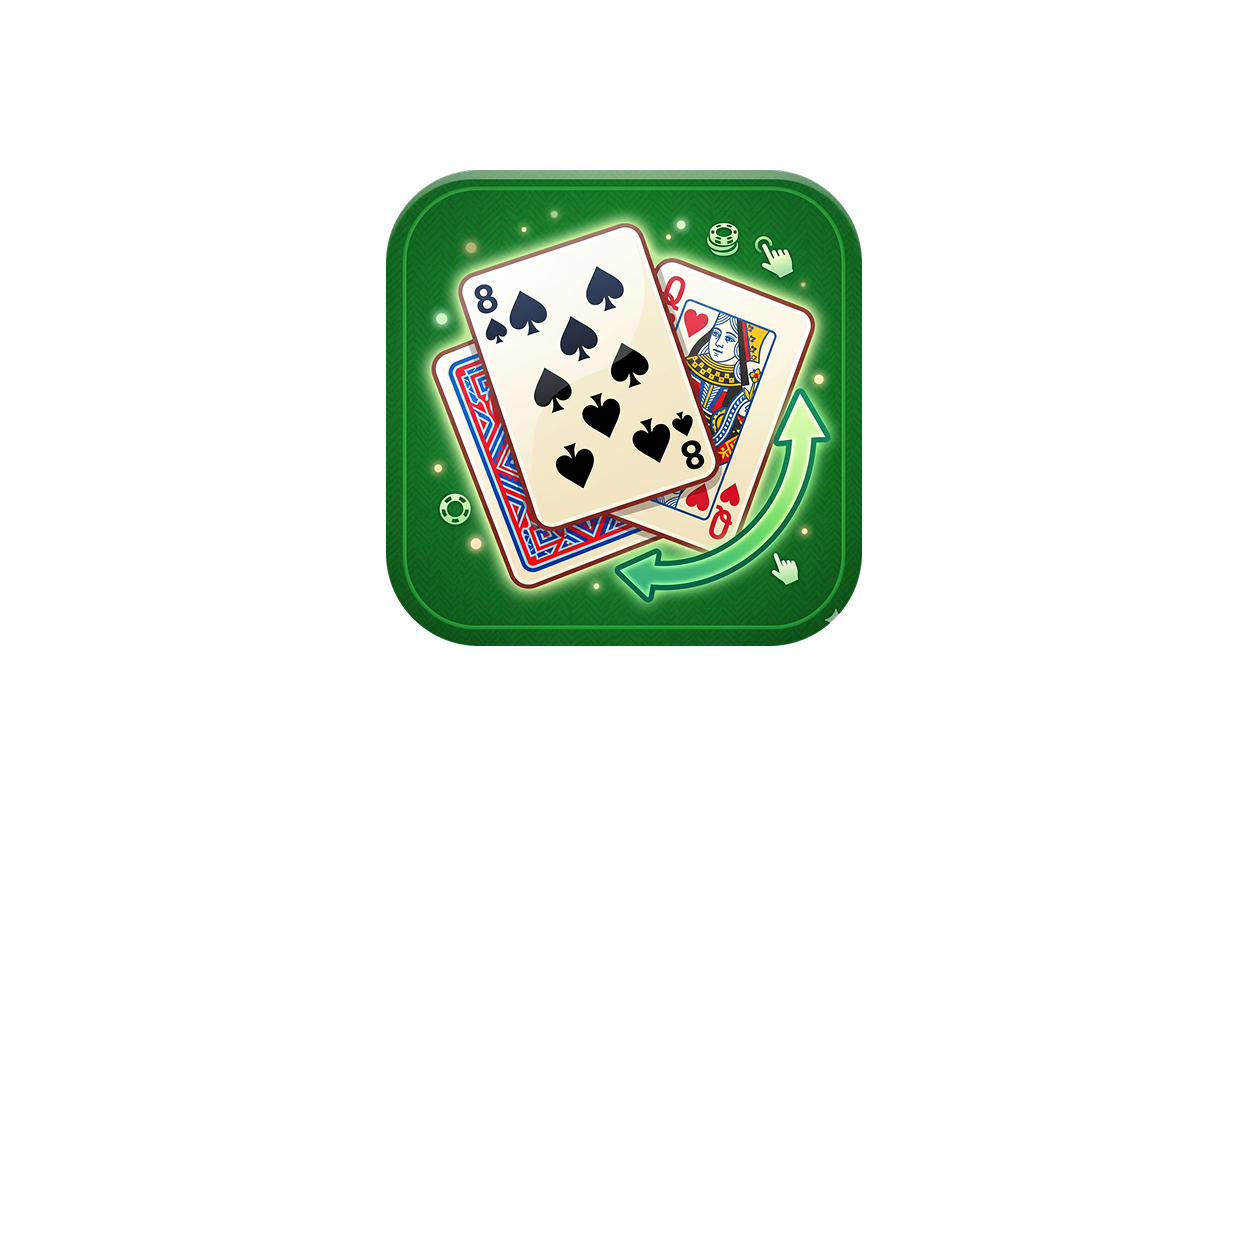
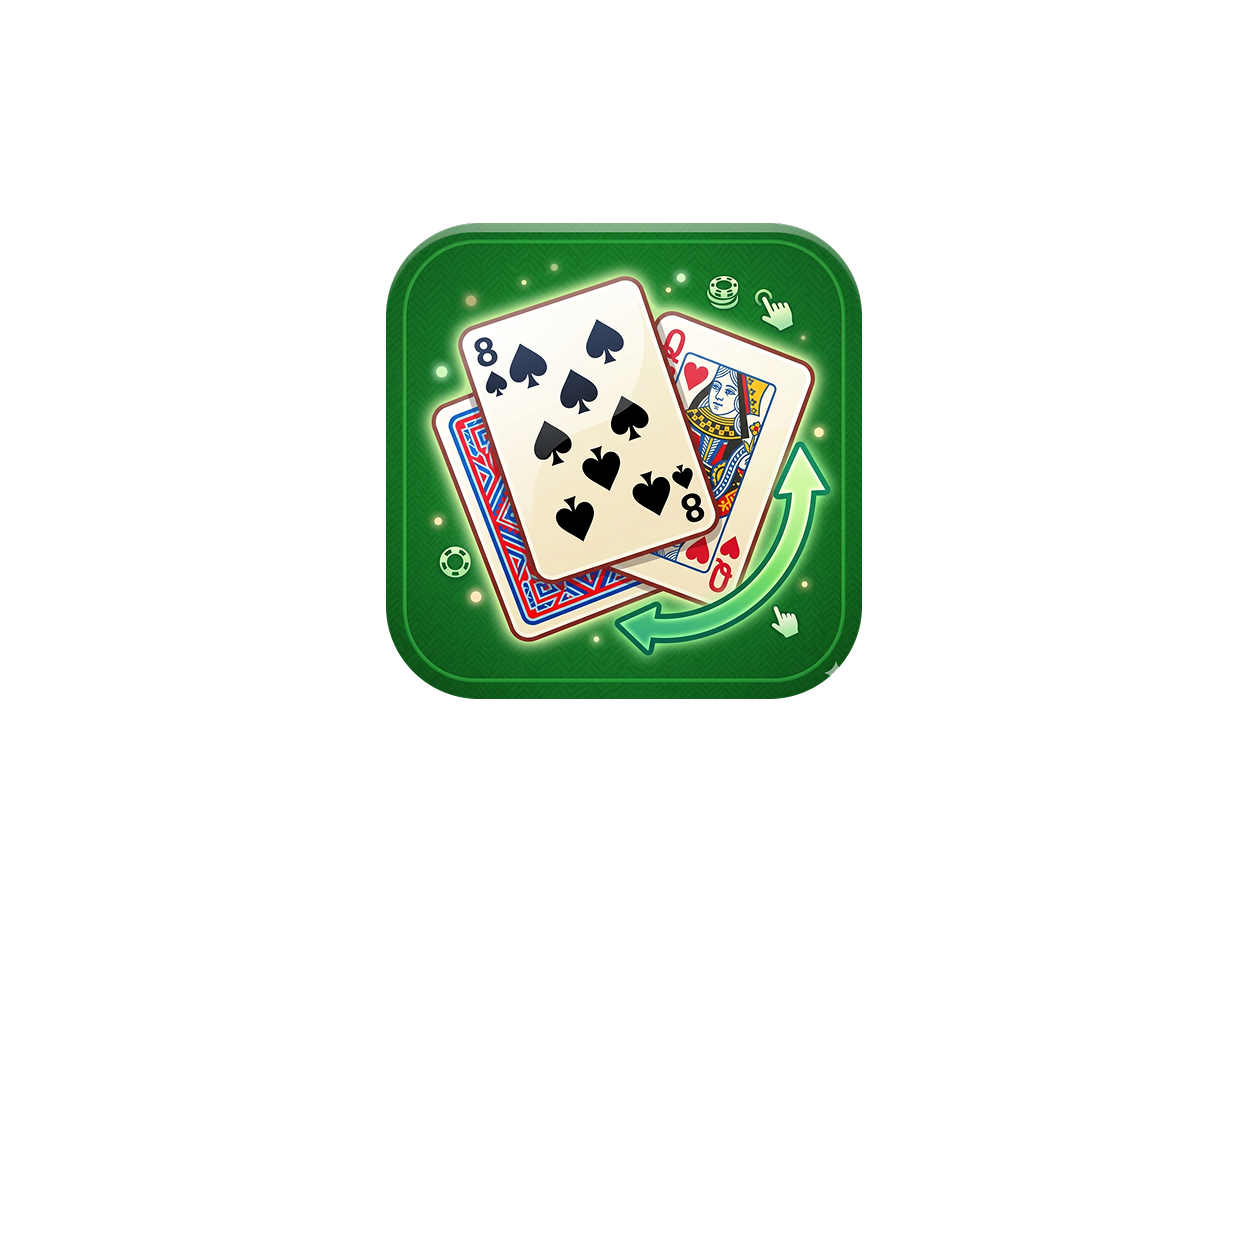
splash image & compelted deck animation positioning

Changed region(s): [[0.3122, 0.1249, 0.6869, 0.562]]

diff --git a/index.html b/index.html
@@ -162,7 +162,7 @@
         ensureCrossOriginIsolationHeaders: true,
         executable: 'index',
         experimentalVK: false,
-        fileSizes: { 'index.pck': 5639396, 'index.wasm': 37685705 },
+        fileSizes: { 'index.pck': 5645620, 'index.wasm': 37685705 },
         focusCanvas: true,
         gdextensionLibs: [],
         godotPoolSize: 4,

diff --git a/index.service.worker.js b/index.service.worker.js
@@ -4,7 +4,7 @@
 // Incrementing CACHE_VERSION will kick off the install event and force
 // previously cached resources to be updated from the network.
 /** @type {string} */
-const CACHE_VERSION = '1777811311|174734417';
+const CACHE_VERSION = '1777812909|13459508';
 /** @type {string} */
 const CACHE_PREFIX = 'Solitaire-sw-cache-';
 const CACHE_NAME = CACHE_PREFIX + CACHE_VERSION;